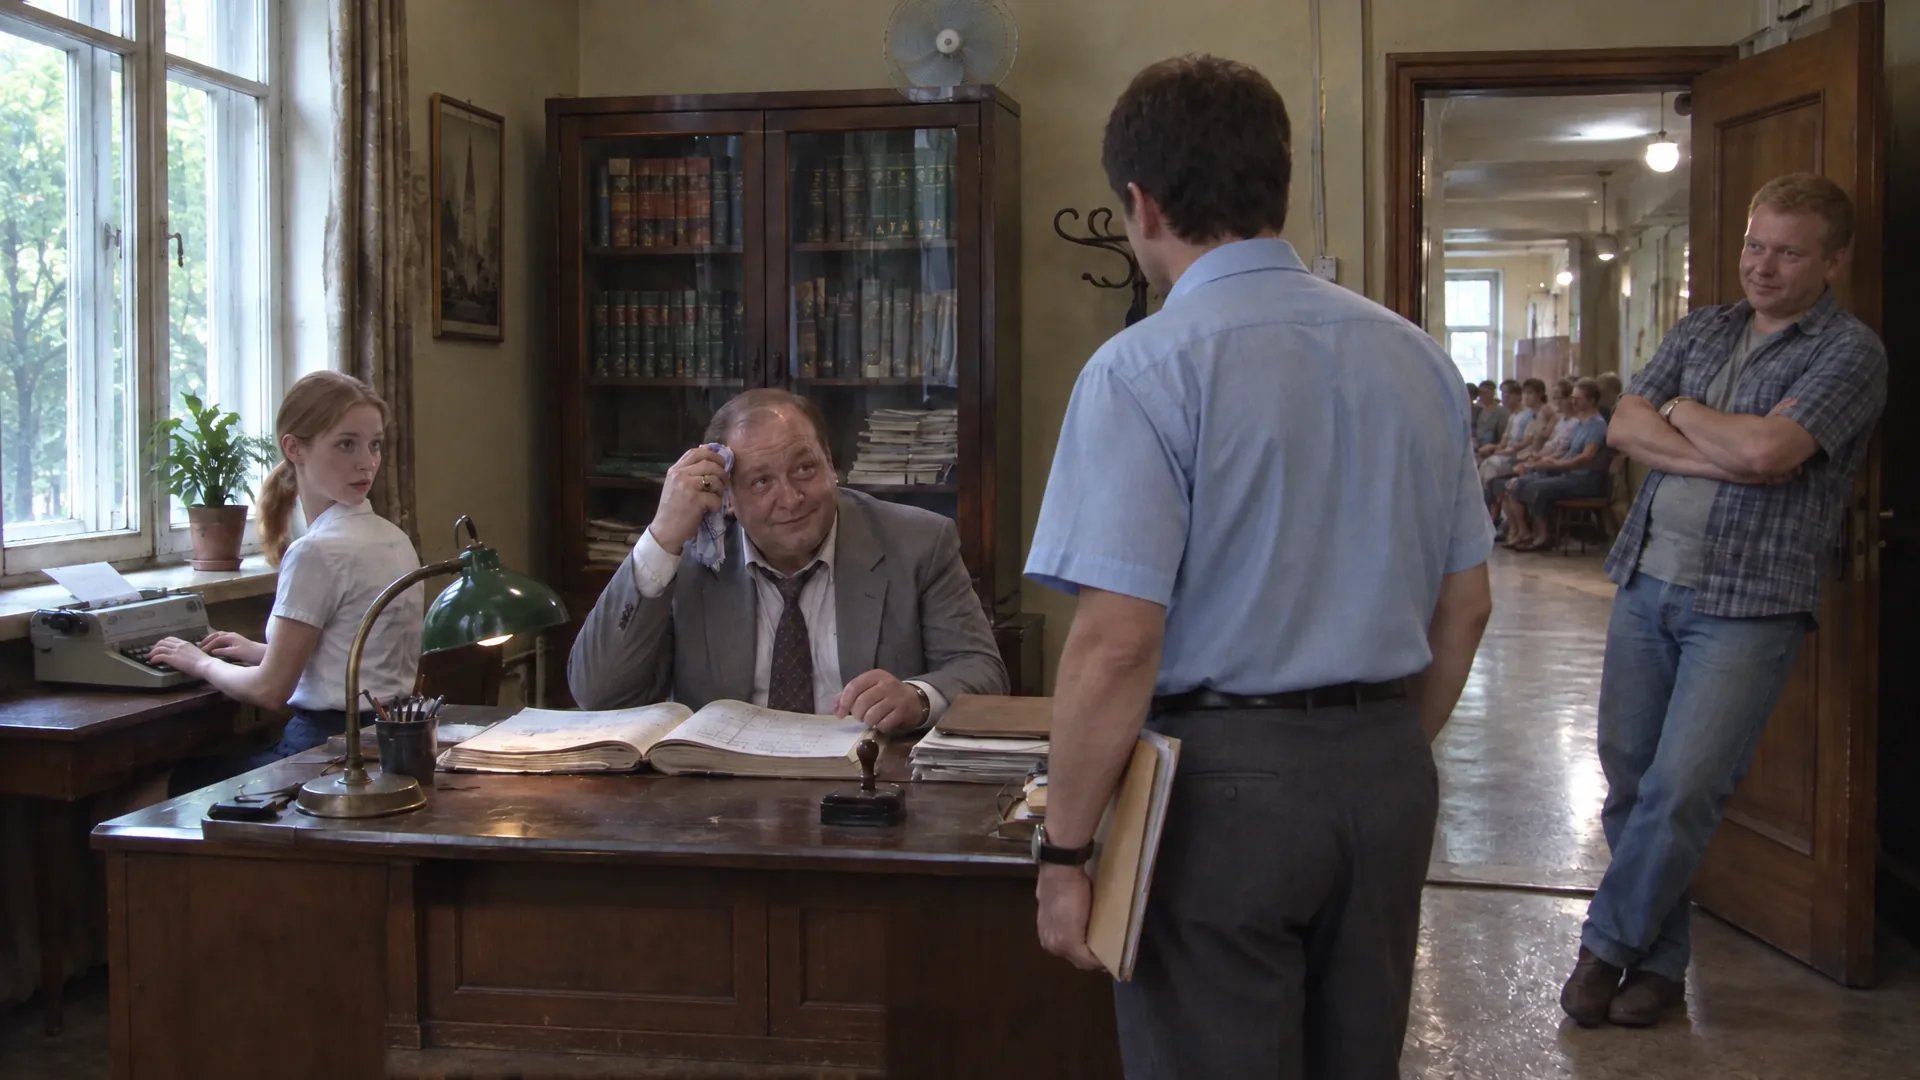
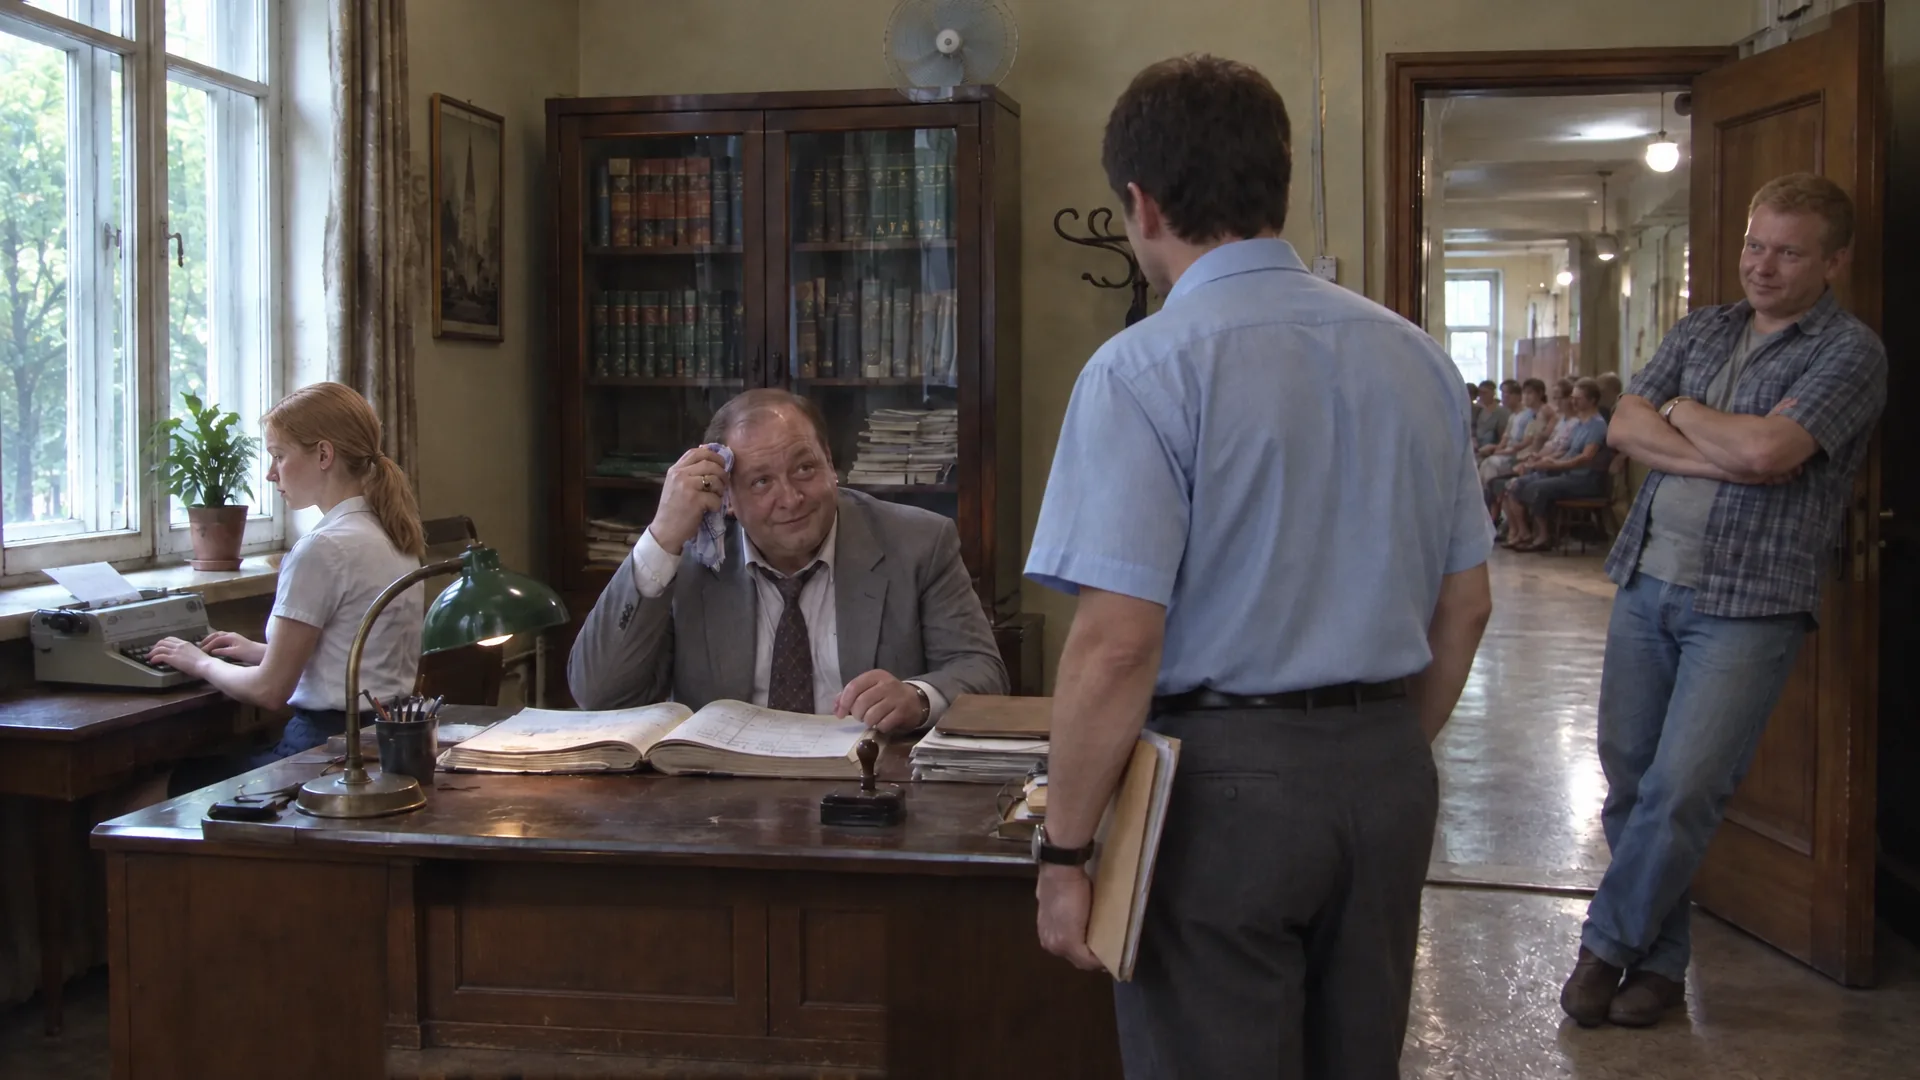
Контора нотариуса: Люда печатает, голова повёрнута туда же, куда туловище (замечание владельца)
Мизансцена требовала невозможного: руки на машинке у левого окна и взгляд через правое плечо на Громова за её спиной —
модель развернула голову почти назад, в камеру. Теперь во всех версиях кадра notary_wide («Реализм», «Воспоминания»
16:9 и квадрат) Люда в профиль к машинке, голова чуть наклонена к комнате, глаза на клавишах. Правка по маске только
головы и плеч; маски подсветки пересчитаны. Источник позы в shots.py и memory.STAGING исправлен, чтобы пересъёмка
её не вернула.

Changed region(s): [[0.125, 0.3361, 0.25, 0.5194]]

diff --git a/tools/hod/shots.py b/tools/hod/shots.py
@@ -325,7 +325,7 @@ shot('landing_open_ots', 'hod_landing_open', 'ots', 'landing', DAY, SUMMER,
 # Нотариус Ковригин, Пресня.
 shot('notary_wide', 'hod_notary', 'wide', 'notary', DAY, SUMMER,
      {'notary': 'sits behind the desk in the centre, facing the visitors and the camera, dabbing his forehead with a handkerchief, the open register in front of him, a strained polite smile',
-      'assistant': 'sits at the small typing desk by the window on the LEFT, her hands frozen above the typewriter keys, glancing over her right shoulder at Gromov\'s back (right of centre), not toward the camera',
+      'assistant': 'sits at the small typing desk by the window on the LEFT, typing, her head facing the same way as her body — toward the typewriter, face in profile — tilted slightly toward the room as if listening; eyes on the typewriter, not toward the camera (owner 2026-10-15: no head turned back over the shoulder)',
       'sledak': 'stands in front of the desk, RIGHT of centre, seen from behind, his case folder in his hand',
       'oper': 'leans on the frame of the open door on the RIGHT, arms crossed, looking at Lyuda'},
      'The camera stands behind the visitors near the wall opposite the desk, at the eye level of a standing person, a 32 mm-equivalent field of view: the whole office with everyone in it; the lower third of the frame is kept free of faces.',

diff --git a/tools/hod/memory.py b/tools/hod/memory.py
@@ -445,8 +445,9 @@ STAGING = {
                     'flick to the side toward the neighbouring door',
         'sledak': 'only the back of his head and his shoulder at the RIGHT edge'},
     'notary_wide': {
-        'assistant': "sits at the small typing desk by the window on the LEFT, her hands frozen above the typewriter keys; her "
-                     "eyes over her shoulder on Gromov's back",
+        'assistant': 'sits at the small typing desk by the window on the LEFT, typing, her head facing the same way as her '
+                     'body — toward the typewriter, face in profile — tilted slightly toward the room as if listening; eyes '
+                     'on the typewriter (owner 2026-10-15: no head turned back over the shoulder)',
         'notary': 'sits behind the desk in the centre, dabbing his forehead with a handkerchief, the open register in front of '
                   'him, a strained polite smile; his eyes on Gromov',
         'sledak': 'stands in front of the desk, RIGHT of centre, seen from behind, his case folder in his hand',
